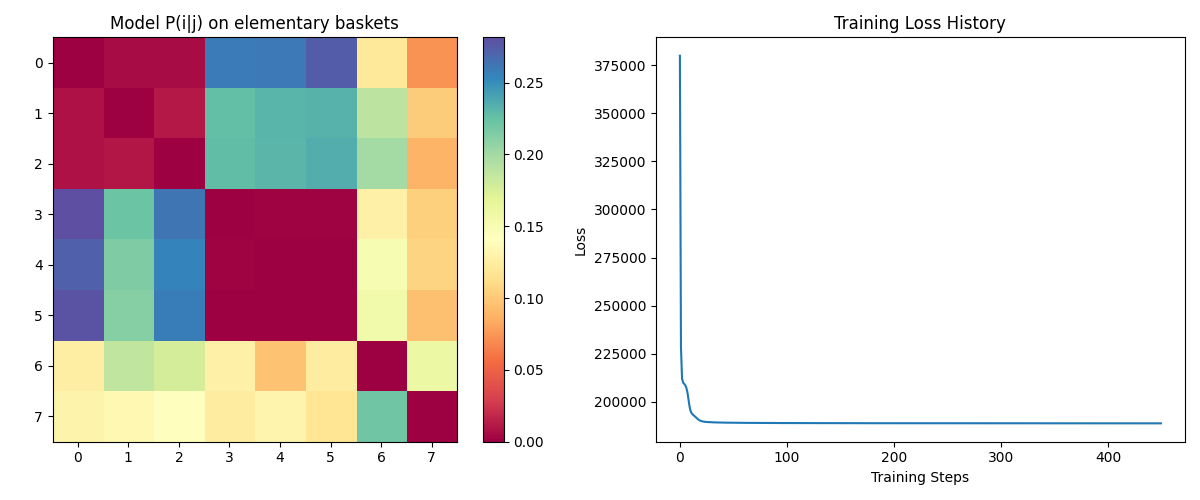
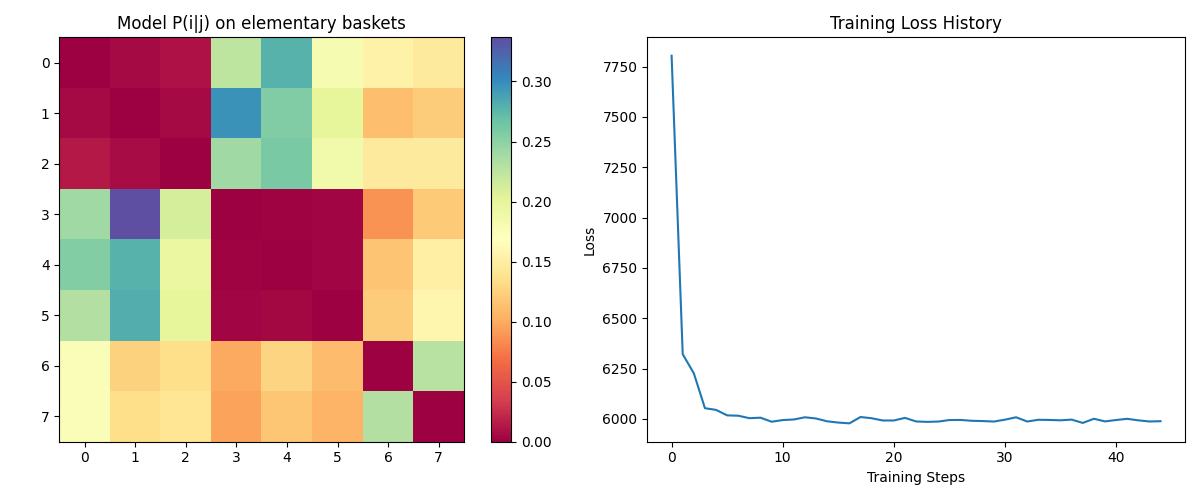
all tests passed

diff --git a/choice_learn/basket_models/attn_model.py b/choice_learn/basket_models/attn_model.py
@@ -23,10 +23,10 @@ class AttnModel:
 
     def __init__(
         self,
-        lr: float = 0.005,
-        epochs: int = 450,
+        lr: float = 0.05,
+        epochs: int = 45,
         optimizer: str = "Adam",
-        batch_size: str = 32,
+        batch_size: str = 50,
         loss_type: str = "nce",
     ) -> None:
         """Initialize the model with hyperparameters.
@@ -258,18 +258,24 @@ class AttnModel:
             tf.Tensor
                 Tensor containing the probabilities of positive samples.
         """
+        """
         pos_score = tf.convert_to_tensor(pos_score)
         target_items = tf.convert_to_tensor(target_items)
-        if len(pos_score.shape) == 0:
-            pos_score = tf.expand_dims(pos_score, 0)
-        if len(target_items.shape) == 0:
-            target_items = tf.expand_dims(target_items, 0)
+    #    if len(pos_score.shape) == 0:
+    #        pos_score = tf.expand_dims(pos_score, 0)
+    #    if len(target_items.shape) == 0:
+    #        target_items = tf.expand_dims(target_items, 0)
         return tf.map_fn(
             lambda args: 1
             / (1 + self.K_noise * self.Q_distribution[args[1]] * tf.exp(-args[0])),
-            (pos_score, target_items),
+            (tf.expand_dims(pos_score, 0), tf.expand_dims(target_items, 0)),
             fn_output_signature=tf.float32,
         )
+        """
+
+        q_dist = tf.gather(self.Q_distribution, target_items)
+        return 1 / (1 + self.K_noise * q_dist * tf.exp(-pos_score))
+    
 
     def proba_negative_samples(self, neg_score: tf.Tensor, target_items: tf.Tensor) -> tf.Tensor:
         """Calculate the probability of negative samples.
@@ -286,6 +292,7 @@ class AttnModel:
             tf.Tensor
                 Tensor containing the probabilities of negative samples.
         """
+        """
         neg_score = tf.convert_to_tensor(neg_score)
         target_items = tf.convert_to_tensor(target_items)
         if len(neg_score.shape) == 0:
@@ -297,8 +304,11 @@ class AttnModel:
             (neg_score, target_items),
             fn_output_signature=tf.float32,
         )
+        """
+        q_dist = tf.gather(self.Q_distribution, target_items)
+        return 1 - (1 / (1 + self.K_noise * q_dist * tf.exp(-neg_score)))
 
-
+    @tf.function
     def get_negative_samples(self, context_items: tf.Tensor, target_items: tf.Tensor) -> tf.Tensor:
         """Generate negative samples for the given context and target items.
 
@@ -314,26 +324,41 @@ class AttnModel:
             tf.Tensor
                 Tensor containing the negative samples for each context item.
         """
-        list_neg_items = []
+        
+        batch_size = tf.shape(context_items)[0]
+        n_items = self.n_items
+        target_items_exp = tf.expand_dims(target_items, axis=1)
+        forbidden_items = tf.concat([context_items, target_items_exp], axis=1)  # ragged if context_items is ragged
+        if isinstance(forbidden_items, tf.RaggedTensor):
+            forbidden_items = forbidden_items.to_tensor(default_value=-1)
+        item_range = tf.range(n_items)  # [n_items]
+        item_range = tf.reshape(item_range, (1, 1, n_items))  # [1,1,n_items]
+        forbidden_items_exp = tf.expand_dims(forbidden_items, axis=-1)  # [batch_size, context+1, 1]
+        mask = tf.reduce_any(tf.equal(forbidden_items_exp, item_range), axis=1)  # [batch_size, n_items]
+        candidates_mask = ~mask
 
-        for i in range(context_items.shape[0]):
-            neg_items = []
-            force_ending_cpt = 0
+        # For each batch, get indices of allowed items
+        def sample_negatives(candidates):
+            indices = tf.where(candidates)[:, 0]
+            n_candidates = tf.shape(indices)[0]
+            # If not enough candidates, sample with replacement
+            k = tf.minimum(self.K_noise, n_candidates)
+            shuffled = tf.random.shuffle(indices)
+            result = tf.cond(
+                n_candidates >= self.K_noise,
+                lambda: shuffled[:self.K_noise],
+                lambda: tf.pad(shuffled, [[0, self.K_noise - n_candidates]], constant_values=shuffled[0])
+            )
+            return result
 
-            while len(neg_items) < self.K_noise and force_ending_cpt < 1000:
-                force_ending_cpt += 1
-                candidate_item = random.randint(0, self.n_items - 1)
+        neg_samples = tf.map_fn(
+            sample_negatives,
+            candidates_mask,
+            fn_output_signature=tf.TensorSpec([self.K_noise], dtype=tf.int64)
+        )
 
-                in_context = tf.reduce_any(tf.equal(context_items[i], candidate_item))
-                is_target = tf.equal(target_items[i], candidate_item)
-
-                if not in_context and not is_target:
-                    neg_items.append(candidate_item)
-
-            list_neg_items.append(neg_items)
-
-        return tf.constant(list_neg_items, dtype=tf.int32)
-
+        return tf.cast(neg_samples, tf.int32)
+        
 
     @tf.function
     def train_step(self, context_batch, items_batch) -> tf.Tensor:
@@ -353,12 +378,21 @@ class AttnModel:
             total_loss = 0
 
             if self.loss_type == "nce":
+                """
                 context_vec = self.context_embed(context_batch)
                 pos_score = self.score(context_vec, items_batch)
                 list_neg_items = self.get_negative_samples(context_batch, items_batch)
                 neg_scores = [self.score(context_vec, tf.gather(list_neg_items, i, axis=1))
                               for i in range(len(list_neg_items[0]))]
-
+                """
+                context_vec = self.context_embed(context_batch)
+                pos_score = self.score(context_vec, items_batch)
+                list_neg_items = self.get_negative_samples(context_batch, items_batch) 
+                neg_scores = tf.map_fn(
+                    lambda neg_items: self.score(context_vec, neg_items),
+                    tf.transpose(list_neg_items),  
+                    fn_output_signature=tf.float32,
+                )
                 total_loss += tf.reduce_sum(self.my_nce_loss(
                     pos_score = pos_score,
                     target_items = items_batch,

diff --git a/choice_learn/basket_models/synthetic_dataset.py b/choice_learn/basket_models/synthetic_dataset.py
@@ -16,45 +16,57 @@ class SyntheticDataGenerator:
 
     def __init__(
         self,
-        n_baskets_default: int = 400,
-        proba_complementary_items: float = 0.7,
-        proba_neutral_items: float = 0.3,
-        noise_proba: float = 0.15,
         items_nest: dict = {
             0: ({0, 1, 2}, [-1, 1, 0, 0]),
             1: ({3, 4, 5}, [1, -1, 0, 0]),
             2: ({6}, [0, 0, -1, 0]),
             3: ({7}, [0, 0, 0, -1]),
         },
-        assortment_matrix: np.ndarray = np.ones((1, 8), dtype=int),
     ) -> None:
         """Initialize the data generator with parameters for basket generation.
 
         Parameters
         ----------
-            n_baskets_default : int
-                Default number of baskets to generate if not specified.
+            items_nest : dict
+                Dictionary defining item sets and their relations.
+        """
+
+        self.items_nest = items_nest
+        self.instantiate(
+            proba_complementary_items=0.7,
+            proba_neutral_items=0.3,
+            noise_proba=0.15,
+            assortment_matrix=np.ones((1, 8)),
+        )
+
+        
+
+    def instantiate(self, 
+        proba_complementary_items: float,
+        proba_neutral_items: float,
+        noise_proba: float,
+        assortment_matrix:  np.ndarray = np.ones((1, 8))) -> None:
+        """Instantiate the data generator with parameters for basket generation.
+
+        Parameters
+        ----------
             proba_complementary_items : float
-                Probability of adding complementary items to the basket.
+                Probability of adding complementary items to the basket.       
             proba_neutral_items : float
                 Probability of adding neutral items to the basket.
             noise_proba : float
                 Probability of adding noise items to the basket.
-            items_nest : dict
-                Dictionary defining item sets and their relations.
-            default_assortment : set
-                Default assortment of items available for basket generation.
+            assortment_matrix : np.ndarray, optional
+                Matrix of assortments to use for generating baskets.
+                If None, uses the default assortment matrix.   
         """
-        self.n_baskets_default = n_baskets_default
 
         self.proba_complementary_items = proba_complementary_items
         self.proba_neutral_items = proba_neutral_items
         self.noise_proba = noise_proba
-
-        self.items_nest = items_nest
-
         self.assortment_matrix = assortment_matrix
         self.default_assortment = self.assortment_matrix[0,:]
+
 
     def get_assortment_items(self, assortment : Union[int, np.ndarray] = None) -> np.ndarray:
         """Return the assortment based on the provided index or array.
@@ -248,7 +260,7 @@ class SyntheticDataGenerator:
         )
 
     def generate_trip_dataset(
-        self, n_baskets=None, assortments_matrix: np.ndarray = None
+        self, n_baskets=400, assortments_matrix: np.ndarray = None
     ) -> TripDataset:
         """Generate a TripDataset from the generated baskets.
 

diff --git a/tests/unit_tests/basket_models/test_datagen.py b/tests/unit_tests/basket_models/test_datagen.py
@@ -5,7 +5,7 @@ This module tests the methods of the SyntheticDataGenerator class
 
 import numpy as np
 
-from choice_learn.basket_models.DataGen import SyntheticDataGenerator
+from choice_learn.basket_models.synthetic_dataset import SyntheticDataGenerator
 from choice_learn.basket_models.dataset import Trip
 
 
@@ -167,10 +167,11 @@ def test_generate_trip_dataset():
     with baskets of items based on the current assortment.
     """
     data_gen = SyntheticDataGenerator()
+    n_baskets = 10
 
     # Test with the default parameters (n_baskets = 400, assortment = [[1, 1, 1, 1, 1, 1, 1, 1],])
-    dataset = data_gen.generate_trip_dataset()
-    assert len(dataset.trips) == data_gen.n_baskets_default, "Should contain exact number of basket"
+    dataset = data_gen.generate_trip_dataset(n_baskets)
+    assert len(dataset.trips) == n_baskets, "Should contain exact number of basket"
     assert all(isinstance(trip, Trip)
                for trip in dataset.trips), "All trips in the dataset should be Trip objects"
     assert all(isinstance(trip.purchases, np.ndarray)

diff --git a/choice_learn/basket_models/main.py b/choice_learn/basket_models/main.py
@@ -6,7 +6,7 @@ os.environ["CUDA_VISIBLE_DEVICES"] = ""
 os.environ["TF_CPP_MIN_LOG_LEVEL"] = "1"
 
 from .attn_model import AttnModel
-from .data_gen import SyntheticDataGenerator
+from .synthetic_dataset import SyntheticDataGenerator
 
 # Parameters
 
@@ -17,6 +17,11 @@ K_noise = 7
 # Generate synthetic dataset
 
 data_gen = SyntheticDataGenerator()
+data_gen.instantiate(
+    proba_complementary_items=0.7,
+    proba_neutral_items=0.3,
+    noise_proba=0.15,
+)
 trip_dataset = data_gen.generate_trip_dataset(n_baskets)
 
 
